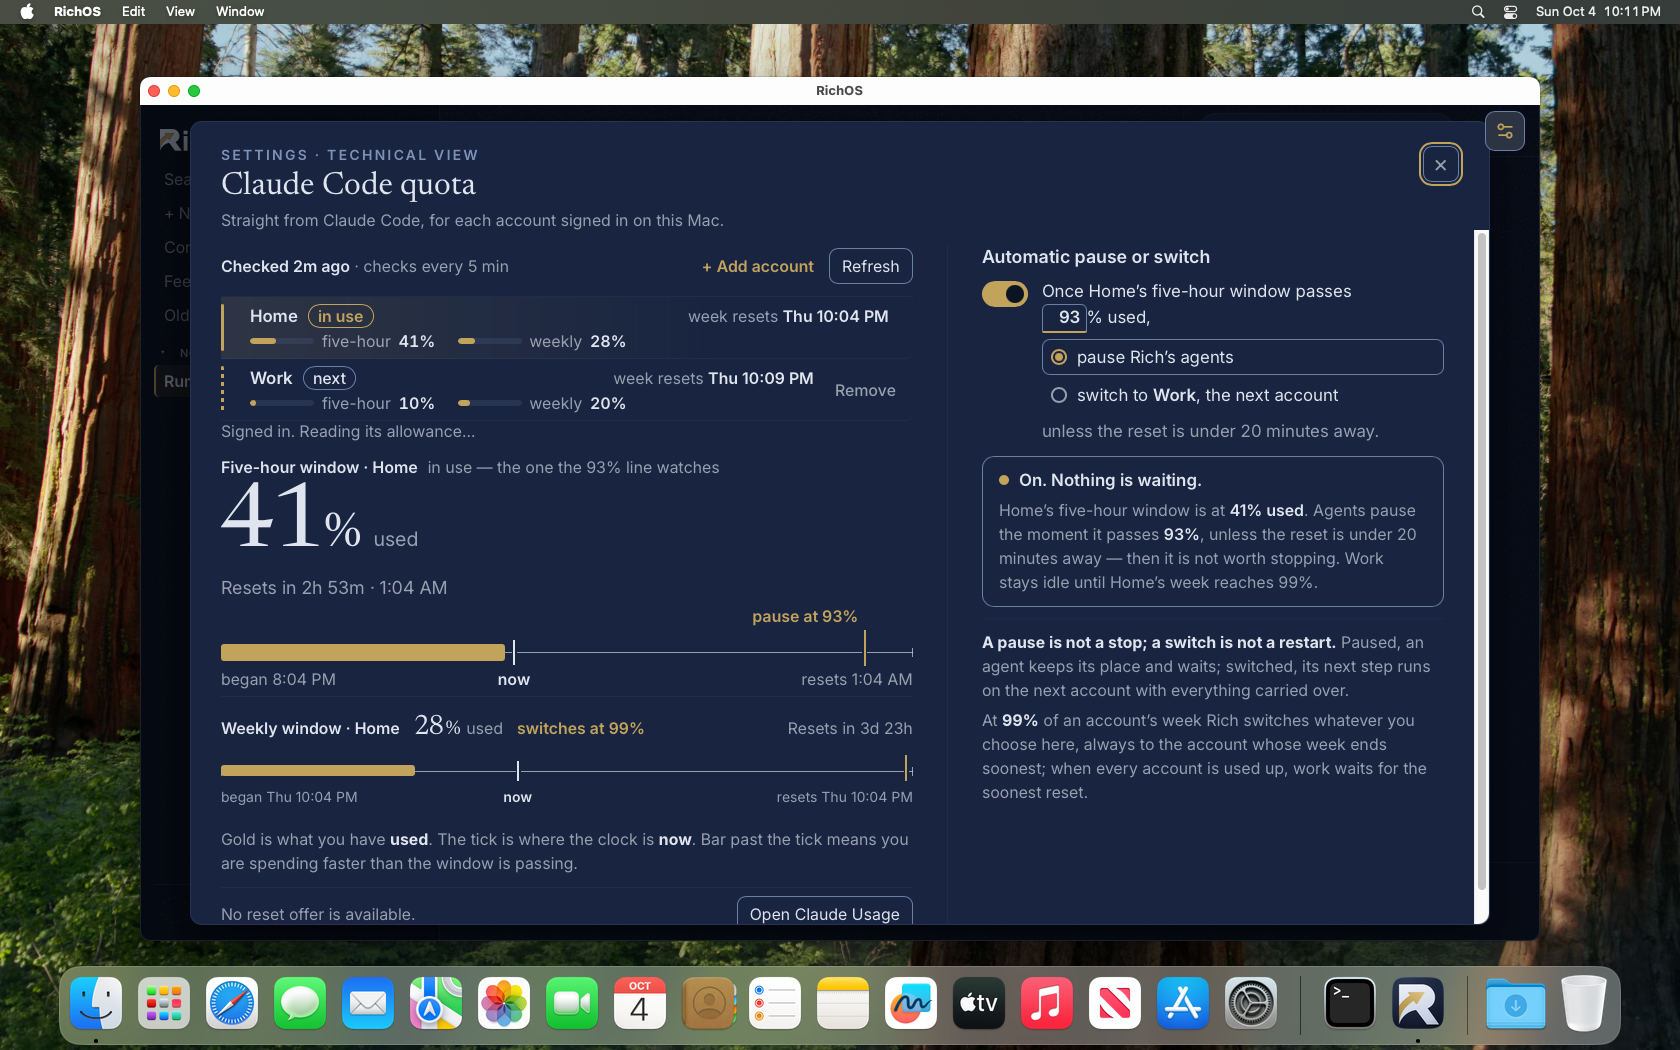
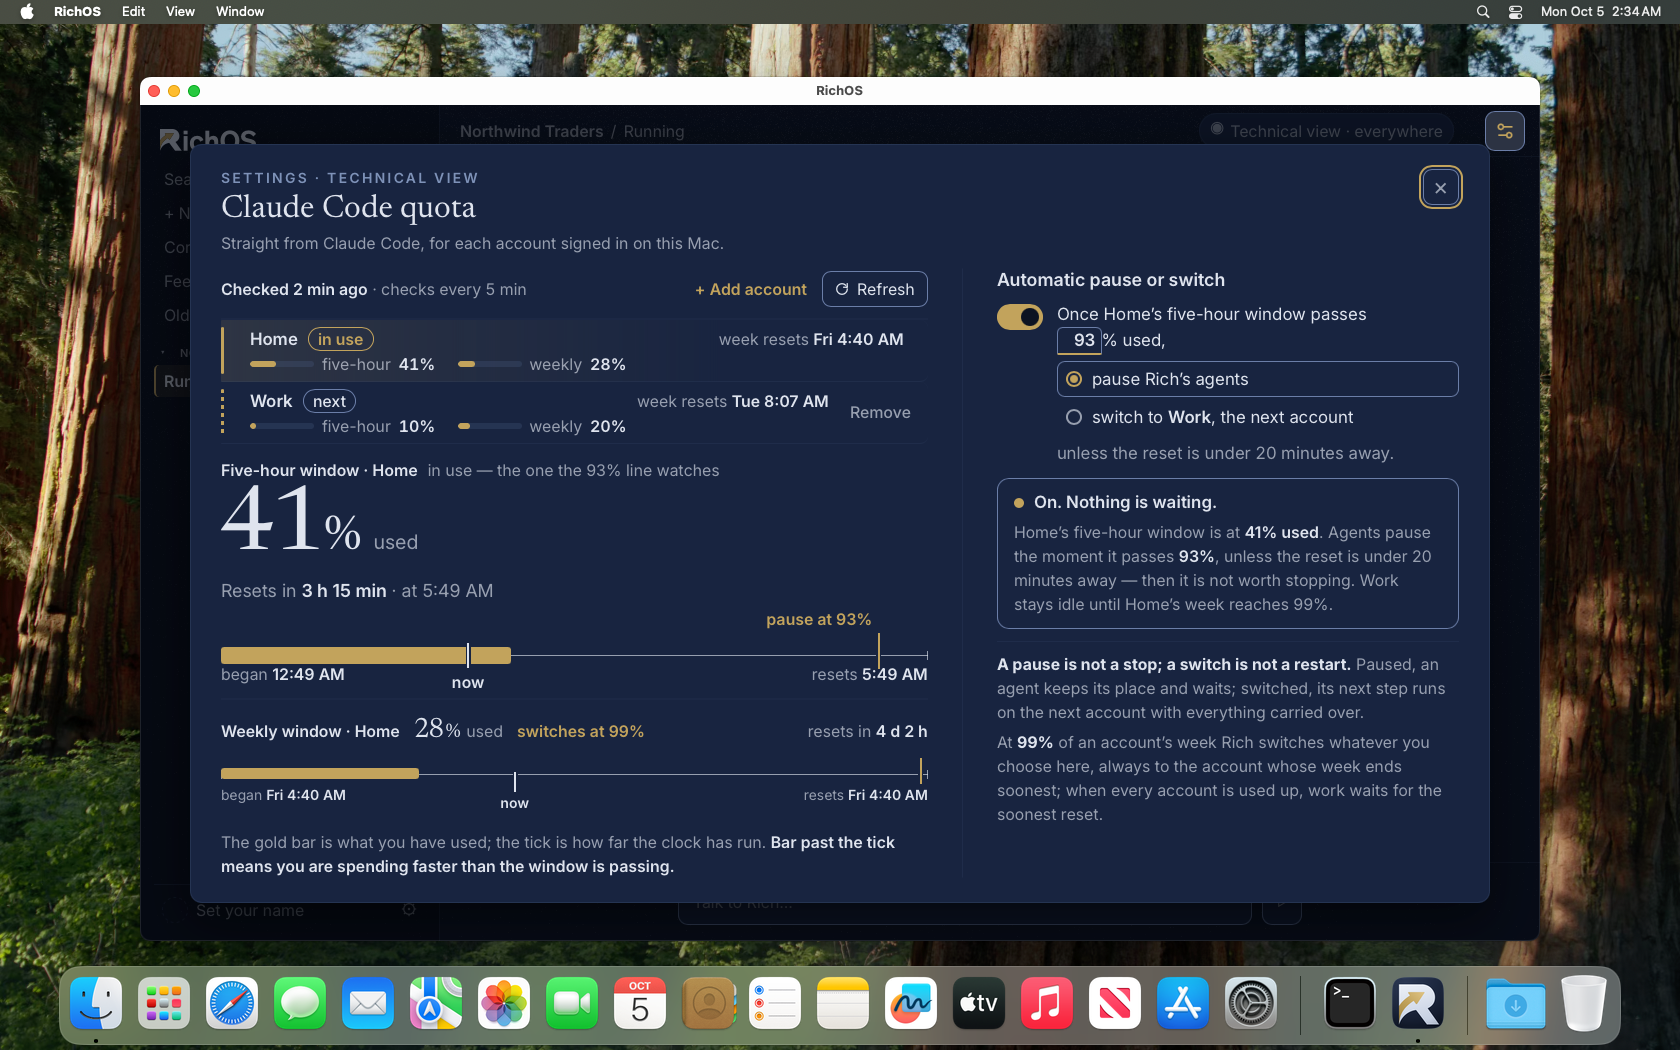
docs/verification: round-16 quota panel, the real app in all seven states, dark and light (walk 3), and the hand-off
Walk 3 (walk-5c66807272b3, 2026-10-05 02:30-02:53Z, scenario_exit 0, cleanup_complete
true): the debug app built at 665d0765a with the walk fixture of 61e8305e2. Shots 1-7,
dark and light, sit beside round 16's renders and replace the panel16b-run1-* files.

Against round 16: 1, 2 and 3 match; 5 matches with two declared differences ("every
minute", the app's measured interval; about 24 px of scroll at the VM's 1400 x 864 window,
where round 16 draws at 1440 x 900). 4, 6 and 7 show round 16's lines, the count "3 agents
reading at once" and the working row "3 agents working on Work". One difference remains
open: #quota-work-status sits at the conversation pane's edge with no dot, where round 16
draws it in the message column (cause in HANDOFF.md). It is reported here, not changed:
the lead's instruction for this walk was to report a remaining difference, not walk again.

HANDOFF.md gives each shot's verdict and each of the 11 items. It also notes that main's
f2d3ab1c4 (the switch line said only once a turn runs on the new account) is merged after
these shots. Also committed: the escalation record esc-20261005T015950Z-f4df3655 (approved
by the lead).

diff --git a/docs/verification/2026-10-04-round16-panel-vm/HANDOFF.md b/docs/verification/2026-10-04-round16-panel-vm/HANDOFF.md
@@ -1,53 +1,83 @@
-# Round-16 quota panel: hand-off from echo-opus-panel16b (stopped by the CEO, 2026-10-05 ~00:12Z)
+# Round-16 quota panel: the real app beside round 16, seven states, dark and light
 
-Branch `cc/echo-opus-panel16b`, workspace `/Users/alex/ab/richos-wt/echo-opus-panel16b`.
-Design: richos-hq `design/mockups/rounds/round-16/` (frozen, read only).
+Branch `cc/echo-opus-panel16d`, workspace `/Users/alex/ab/richos-wt/echo-opus-panel16d`
+(echo-opus-panel16d, 2026-10-05; continues echo-opus-panel16b and echo-opus-panel16c).
+Design: richos-hq `design/mockups/rounds/round-16/` (frozen, read only). Each `N-<state>-dark.png` /
+`-light.png` here is the real app in the test VM; each `N-<state>-round16-*.png` beside it is
+round 16's render of that state.
 
-**Main is already merged into this branch**: main at `191d73326` overlaps `quota.rs`,
-`claude_accounts.rs`, `spine.rs`, `rotation_tests.rs` and the README count; it was merged in
-`e9fd447d1` and the one semantic conflict fixed in `4b3742e2d` (main's new switch-waits rotation
-test now turns the automatic switch on, which `e1ac24d27` requires; README total 1777). If main
-has moved again, the next Echo merges main first, then reruns
-`cargo test -p richos-core --lib -- quota claude_accounts` and `--test rotation_tests`.
+**Where the shots come from.** Walk 3 (`walk-5c66807272b3`, 2026-10-05 02:30-02:53Z,
+`execution: completed`, `scenario_exit: 0`, `cleanup_complete: true`), the debug app built at
+`665d0765a` (every app commit on this branch up to then) with the walk fixture of `61e8305e2`.
+No app code changed between that build and this commit's parent.
+
+**Not in these shots: main's `f2d3ab1c4`** ("Switched to" is said only once a turn runs on
+the new account), merged after the walk. With it, shot 4's switch line appears when the
+user's turn starts on Work, not before the user's message.
+
+## The seven states
+
+| Shot | Round 16 state | Verdict |
+|------|----------------|---------|
+| 1 one account | `low` | **Matches.** + Add account beside Refresh (the circular arrow), "Checked … · checks every 5 min", round 16's times, the ruler key with its bold sentence. |
+| 2 two accounts | `two` | **Matches.** Home in use 41% / 28%, Work next at **10% / 20%**, the one sentence with Pause, no scrollbar. Home has no Remove (item 1, kept). |
+| 3 switched sheet | `switched` | **Matches.** Work **in use**, Home past its line at 95% with **no tag** and "week resets Fri", "switch to the next account — none has room now", the card "In use: Work, since …". |
+| 4 switched line | `switched-line` | **Partly.** Rich's line "Switched to Work — Home reached 95% … Nothing stopped.", a turn on Work, the chip "··· 3 working", and the working row "**3 agents working on Work**". **Open:** the row sits at the conversation pane's left edge with no dot; round 16 draws "• 3 agents working on Work" in the message column under Rich's line. |
+| 5 fast sheet | `fast-switch` | **Matches, with one declared difference.** The card says round 16's sentence: "3 agents reading at once took Work's five-hour window from 19% to 28% in 1 minute. The lines moved to 91% and 97% …". The moved lines carry their ghosts ("switch at 91% · was 93%", "switches at 97% · was 99%"), and + Add account and Refresh keep their row. Declared: "every minute" where round 16 says "every 2 min" (the app's measured interval, quota.rs `note_speed`). The sheet scrolls about 24 px because the VM's window is 1400 × 864 pt (the app's log: "derived 1400x864"), while round 16 draws at 1440 × 900. |
+| 6 fast alert | `fast-alert` | **Partly.** Rich's alert "Usage is climbing fast: **3 agents reading at once** took Work's five-hour window from 10% to 13% in 3 minutes …", then a turn with the chip and the working row. **Open:** the same row placement as shot 4. |
+| 7 back to normal | `normal-again` | **Partly.** Rich's line "Usage is back to normal. I'm checking every 5 minutes again, and the lines are back at 93% and 99%.", then a turn with the chip and the working row. **Open:** the same row placement as shot 4. |
+
+**The one open difference, with its cause.** `#quota-work-status` (`richos/app/ui/style.css`,
+the rule `#quota-work-status { color: var(--ink-soft); font-size: 1rem; margin-bottom: 8px; }`)
+has none of its sibling `#drill-chip-zone`'s column rules (`max-width: var(--reading-width);
+margin: 0 auto; padding: 0 28px 6px`), so it spans the composer zone from the pane's edge. It
+also draws no leading dot. Not changed here: the lead's instruction for this walk was to
+report a remaining difference, not to walk again.
+
+**Why the row comes with a user turn in shots 4, 6 and 7.** The row and the chip exist only
+while a turn of this conversation runs (`main.rs` `get_worker_status` reads the conversation's
+lease during its turn). Round 16 draws them after Rich's reply, with the turn over. So each
+of those shots holds one turn open, which adds the user's message above the row.
+
+**Not panel differences (left as they are).** The technical view's "Rich *reached out*"
+heading on Rich's lines (round 16: "Rich · 11:34 PM"), the "Worked" and "Between turns"
+blocks, and the fixture's own row "? rate_limit_event · outcome not recorded" (shot 7). These
+come from the app's conversation in technical view, not from the panel.
 
 ## The 11 items
 
-| # | Item | State | Commit |
-|---|------|-------|--------|
-| 1 | Remove on Account 1 | **Kept, with reason**: Account 1 is the user's own Claude Code sign-in (the folder Claude Code in the terminal uses too), so forgetting it would sign Claude Code out on this Mac, the opposite of the design's "nothing on the account itself changes" (`claude_accounts.rs` `remove` refuses it). | 8b5de929f (reason recorded) |
-| 2 | Open Claude Usage in the reset section | **Done**: no reset section and no button in any state round 16 draws. **Kept** only inside the weekly-reset section when there is a reset offer, an approval or an attempt (none drawn by round 16); reason: an uncertain reset blocks automatic retry and tells the user to check Claude's Usage page, and this is its one way there. | 8b5de929f |
-| 3 | Time and duration formats | **Done**: "Resets in **3 h 22 min** · at Mon 2:57 AM", "resets in **4 d 2 h**", "began **9:57 PM**", "Checked 2 min ago", "Last reading 47 min ago — stale". Seen on the real app in run 1, shots 1 and 2. | 8b5de929f |
-| 4 | Fast alert has no agent count | **Done in code, not yet seen in the VM**: "15 agents reading at once took Home's five-hour window from 40% to 71% in 12 minutes…" from the shell's count (`set_agents_working`) and the measured rise; unit-tested. | 092f11469, 5f54e1c84 |
-| 5 | Every-account-used-up line says time left | **Done in code**: "…until 2:17 AM, when Home's window resets — the soonest." at the webview's offset (`set_utc_offset` from `launch_state`); unit-tested. Not reached in the VM walk (no walk step exhausts both accounts). | 092f11469, 5f54e1c84 |
-| 6 | "N agents working on Work" row | **Done in code, mock-tested** ("1 agent working on Home"); not yet seen in the VM. Shows while the conversation's chip counts agents working (that count exists only during the thread's active turn, as the chip itself does). | 5f54e1c84, 8b5de929f |
-| 7 | Two-account sheet scrolls in 1400 × 835 | **Done**: no scrollbar on the real app (run 1 shot 2) and measured in `tests/quota.js` at 1400 × 835. | 8b5de929f |
-| 8 | "Signed in. Reading its allowance…" stays | **Done**: Add/Sign in/Remove lines pass after 3.6 s (round 16's toast time); the reading line ends when the reading arrives. Run 1 shot 2 shows no line. | 8b5de929f |
-| 9 | Refresh has no icon | **Done** (circular arrow; turns while asking). Run 1 shots 1 and 2. | 8b5de929f |
-| 10 | Ruler key text | **Done**, round 16's words with the bold second sentence. Run 1 shots 1 and 2. | 8b5de929f |
-| 11 | Five-hour bar past the "now" tick | **Done**: the drawing already matched; the walk's fixture put the tick at 42% with the bar at 41%. The walk now uses round 16's clock (3 h 22 min left → tick at 32.7%, bar 8.3 points past it), visible in run 1 shots 1 and 2. Stamps now sit 8 px above "now" as round 16 draws them. | d2ae951e9, 8b5de929f |
+| # | Item | State, and the shot that shows it |
+|---|------|-----------------------------------|
+| 1 | Remove on Account 1 | **Kept, with reason**: Account 1 is the user's own Claude Code sign-in, so forgetting it would sign Claude Code out on this Mac (`claude_accounts.rs` `remove` refuses it). Shots 2, 3 and 5: Home has no Remove. |
+| 2 | Open Claude Usage in the reset section | **Done**: no reset section and no button in any state round 16 draws. Kept only inside a weekly-reset offer or attempt, its one way to Claude's Usage page. Shots 1 to 3 and 5: none. |
+| 3 | Time and duration formats | **Done**: "Resets in **2 h 42 min** · at 5:27 AM", "resets in **1 d 5 h**", "began **12:27 AM**", "Checked 2 min ago". Shots 1, 2, 3 and 5. |
+| 4 | Fast alert has no agent count | **Done, seen**: "3 agents reading at once took Work's five-hour window from 10% to 13% in 3 minutes" (shot 6), and the same sentence on the sheet's card (shot 5, `8e6b0a169`). |
+| 5 | Every-account-used-up line says time left | **Done in code**, unit-tested (`quota.rs` "Every account is used up. 3 agents are holding their place until …"). Round 16 draws no such state among these seven, and the walk does not exhaust both accounts. |
+| 6 | "N agents working on Work" row | **Done, seen, one open difference**: "3 agents working on Work" in shots 4, 6 and 7, at the pane's edge with no dot (above). |
+| 7 | Two-account sheet scrolls in 1400 × 835 | **Done**: no scrollbar in shots 2 and 3; `tests/quota.js` measures it. The fast sheet (shot 5) scrolls about 24 px at 1400 × 864 (above). |
+| 8 | "Signed in. Reading its allowance…" stays | **Done**: no stale line in shot 2. |
+| 9 | Refresh has no icon | **Done**: the circular arrow. Shots 1, 2, 3 and 5. |
+| 10 | Ruler key text | **Done**, round 16's words with the bold second sentence. Shots 1, 2, 3 and 5. |
+| 11 | Five-hour bar past the "now" tick | **Done**: the bar runs past the tick in shots 1 and 2 (round 16's clock), stamps 8 px above "now". |
 
-Other commits: a0df244c2 (affordances.js prints stale registry rows beside unclassified ones).
+## Commits on this branch (echo-opus-panel16d)
 
-Proof run once each under `scripts/testvm/reserve.py --`: `node ui/tests/quota.js` 26 PASS 0 FAIL;
-`node ui/tests/contrast.js` 76 PASS 0 FAIL; `node ui/tests/affordances.js` 121 PASS 0 FAIL;
-core `quota claude_accounts` 73 passed, `rotation_tests` 31 passed (after the merge).
+- `e679eea49` a lane reads "used up" only at 100%; past the line it only has no room (shot 3).
+- `8e6b0a169` the fast card says round 16's sentence; `quota.rs` View publishes `rises` and `agentsWorking`.
+- `807394b97` + Add account and Refresh keep their place on the reading's row (shot 5).
+- `fa766bf4c` testvm fake claude: each lease keeps its own evidence journal; only the user's turn is held.
+- `82e10cef7` round16-panel-walk.sh: states 4 to 7 hold a user turn, rise from Work's own figures, stop after shot 5.
+- `61e8305e2` testvm fake claude: reports Claude Code's startup inventory (`system/init`) with every turn.
 
-## Screenshots
+**Why walks 1 and 2 showed "Stopped" instead of the row.** The app refuses a company
+conversation's turn until the child's `system/init` names the onboarding tools (`native.rs`
+`ensure_onboarding_tools_loaded`). The fake never sent one, so no turn of the walk's
+conversation could run (the guest's relaunch log: "cognition protocol: The connection did not
+report whether company interview tools loaded."). That was a fixture gap, not an app defect.
 
-Committed here from run 1 (build before the merge, 2026-10-04 23:37-00:03Z), named `panel16b-run1-*`:
-`1-one-account` and `2-two-accounts`, dark and light. They show items 3, 7, 8, 9, 10, 11.
-In run 1's shot 2 the Work lane reads Home's figures (41% / 28%): that is main's hunt finding 48
-(an added account's reader swapped for Account 1's during a read), fixed on main in `3ac58b9a7`
-and now merged; because of it Work had no room, no switch happened, and states 3 to 7 of run 1
-are not valid evidence (not committed).
+## Proof
 
-**Missing**: states 3 to 7 (switched sheet, switched line with the working row, fast sheet, fast
-alert with the agent count, back to normal), dark and light, from a build that includes the merge.
-Run 2 (built at `4b3742e2d`) was stopped at state 1 by the CEO's restart and cleaned up
-(`stop.sh walk-4cf4d2523ca0`: app quit, VM stopped, clone deleted).
-
-## Exact next step
-
-1. Merge main if it moved; rebuild: `cd richos/app/src-tauri && mkdir -p ../ui-dist && ../scripts/testvm/reserve.py --wait 1800 -- cargo tauri build --debug --bundles app` (exit 1 at the updater signing step is expected; the `.app` is complete), then `ditto -c -k --keepParent RichOS.app <scratch>/RichOS.app.zip`.
-2. One walk: `cd richos/app/scripts/testvm && ./reserve.py --wait 1800 -- ./run-walk.py --wait 1800 --bundle <zip> --home <empty dir> --engine ~/.richos-nightly/releases/v1.2.0-nightly.20261003.35/richos-engine-1.2.0.tar.gz --report <json> -- $PWD/round16-panel-walk.sh <out-dir>` (about 26 minutes).
-3. Check shot 2's Work lane reads 10% / 20%, shot 3 shows Work in use, shot 4 the working row "3 agents working on Work", shot 6 the alert with "3 agents reading at once"; commit shots 1-7 beside the existing round-16 renders in this folder, replacing the `panel16b-run1-*` files.
+- `node ui/tests/quota.js`: 26 PASS, 0 FAIL, including the dark and light state matrices' fit and contrast checks.
+- `cargo test -p richos-core --lib -- quota claude_accounts`: 73 passed. `--test rotation_tests`: 31 passed (at `665d0765a`).
+- `scripts/testvm/test/fake-claude-fill-first.test.py`: 9 ok.
+- Walks: walk 1 (echo-opus-panel16c's, `walk-c9dcf2ba1a38`), walk 2 (`walk-2b34a9ca8b95`) and walk 3 (`walk-5c66807272b3`); each report says `cleanup_complete: true`.

diff --git a/docs/verification/escalations/2026-10-05-echo-opus-panel16d-round-16-panel-one-more-vm-walk-is-needed-for-states-4-6-and.md b/docs/verification/escalations/2026-10-05-echo-opus-panel16d-round-16-panel-one-more-vm-walk-is-needed-for-states-4-6-and.md
@@ -1,0 +1,32 @@
+# Escalation: Round-16 panel: one more VM walk is needed for states 4, 6 and 7 (the brief allows only one, and it found a fixture blocker)
+
+- id: `esc-20261005T015950Z-f4df3655`
+- raised: 2026-10-05T01:59:50Z
+- from: echo-opus-panel16d
+- worktree: `/Users/alex/ab/richos-wt/echo-opus-panel16d` (branch `cc/echo-opus-panel16d`)
+- head: `61e8305e2e30898175c187b26f6851a0400a9894`
+- state: **proceeding**
+- for: lead
+
+## The question
+
+May I run ONE more round16-panel-walk.sh on the test VM (about 35 minutes, after one debug rebuild) so shots 4, 6 and 7 show the working row and the agent count? Without it, states 1, 2, 3 and 5 are proven on the real app, and 4, 6 and 7 are not.
+
+## What was already tried
+
+Collected echo-opus-panel16c's walk (PID 51126, ended 01:07Z, cleanup_complete true). It showed: Home tagged used up at 95% (fixed, e679eea49); the fast card and header row differ from round 16 (fixed, 8e6b0a169 and 807394b97); no working row and a Stopped card in shots 4, 6 and 7. I rebuilt at 665d0765a and ran the brief's ONE more walk (walk-2b34a9ca8b95, 01:34Z). Shots 1, 2 and 3 match round 16, but shot 4 is again a Stopped card. The guest's relaunch log names the real cause: 'cognition protocol: The connection did not report whether company interview tools loaded.' The walk's fake claude never sends Claude Code's system/init frame, so native.rs ensure_onboarding_tools_loaded refuses every turn of the walk's company conversation. Fixed in the fixture only (61e8305e2: the fake now sends the init frame in the shape testvm/permission-provider.py already proved in the S7 walk; its test is 9 ok). No app code is involved in this blocker.
+
+## Proceeding meanwhile
+
+Finishing the current walk, committing every shot that matches round 16 and the HANDOFF update with each state's verdict, then cleaning up. The next walk needs only: rebuild (no app code changed since 665d0765a, so the existing bundle stands) and run-walk.py with round16-panel-walk.sh from this branch.
+
+## How this reaches the lead
+
+This file is the RECORD, not the delivery. The escalation was written to the
+engine escalation ledger at `/Users/alex/.claude/state/escalations.jsonl` as `esc-20261005T015950Z-f4df3655`, which the
+lead's session reads at session start and at every turn end WITHOUT this branch
+being merged. If this file is never landed, the escalation still arrives.
+
+Close it with:
+
+    escalate.sh ack esc-20261005T015950Z-f4df3655 --disposition "<what you decided or did>"
